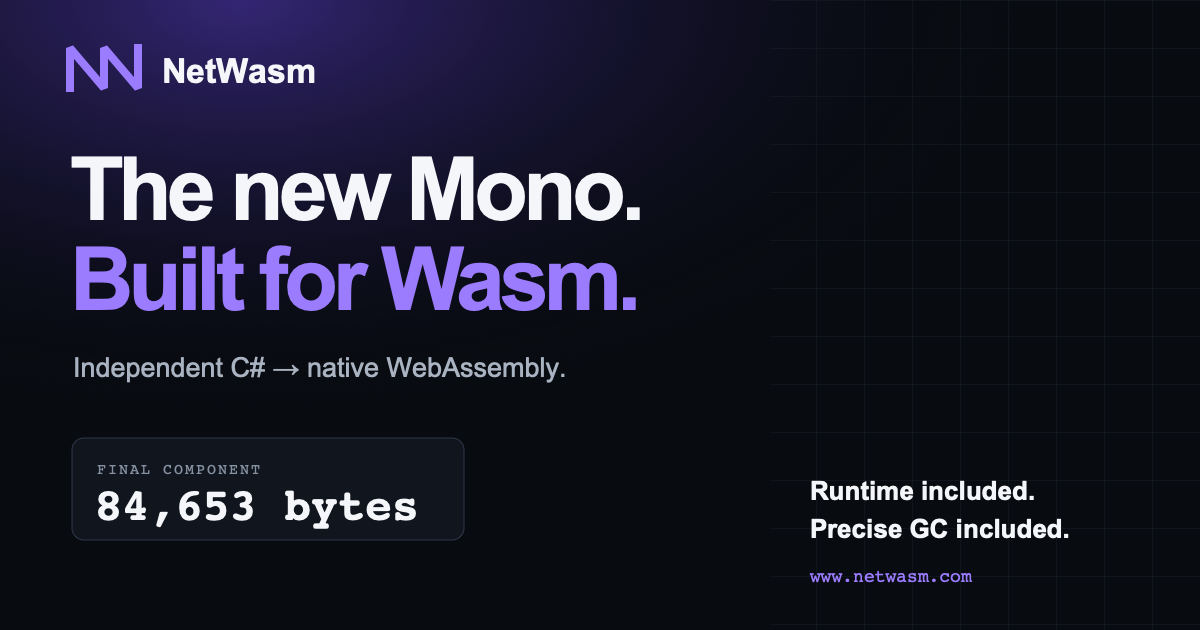
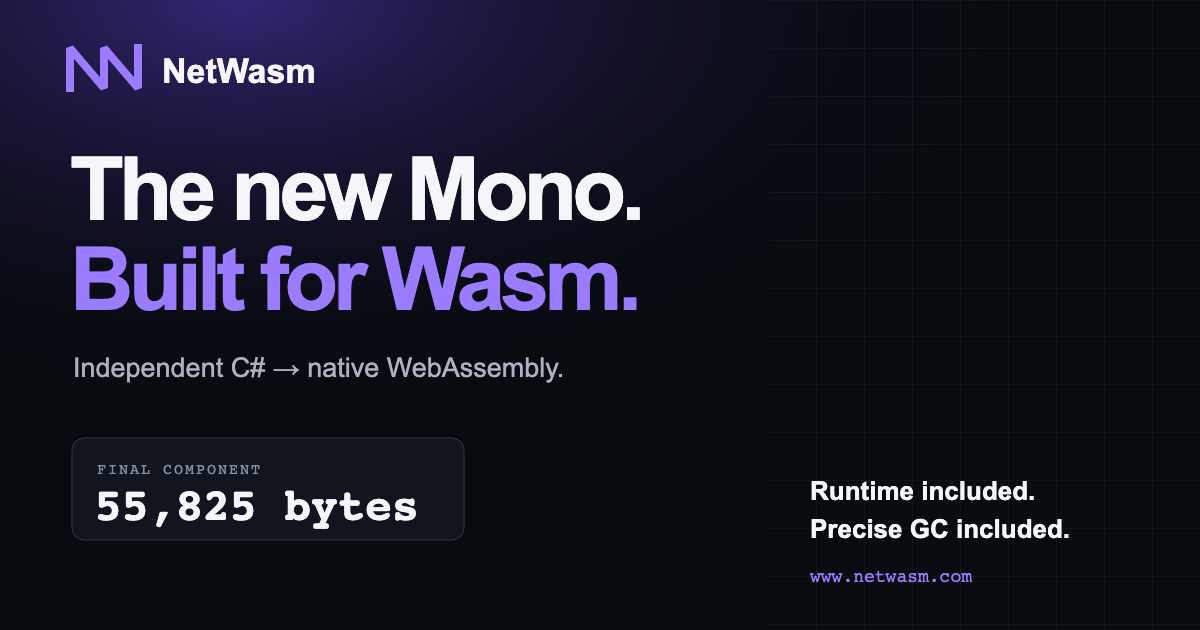
Update site for NetWasm 0.7.0

diff --git a/index.html b/index.html
@@ -78,7 +78,7 @@
         <div class="hero-copy">
           <p class="eyebrow"><span></span> Independent .NET. Built outside Microsoft.</p>
           <h1>Compile C#<br>to <em>WebAssembly.</em></h1>
-          <p class="hero-lede">NetWasm compiles C# and .NET CIL into small, standalone WebAssembly modules and WASI Preview 2 components. A clean Release build of <code>Console.WriteLine(42)</code> is 84,653 bytes, with the runtime and precise GC included.</p>
+          <p class="hero-lede">NetWasm compiles C# and .NET CIL into small, standalone WebAssembly modules and WASI Preview 2 components. A clean NetWasm 0.7.0 Release build of <code>Console.WriteLine(42)</code> is 55,825 bytes, with the runtime and precise GC included.</p>
           <div class="hero-actions">
             <a class="button button-primary" href="https://playground.netwasm.com/" target="_blank" rel="noopener noreferrer">
               Try NetWasm now, no install
@@ -98,7 +98,7 @@
           </div>
           <div class="proof-body">
             <p class="proof-label">FINAL COMPONENT</p>
-            <p class="proof-number">84,653</p>
+            <p class="proof-number">55,825</p>
             <p class="proof-unit">bytes</p>
             <div class="proof-rule"></div>
             <ul>
@@ -125,29 +125,29 @@
       <section class="feature-section section" aria-labelledby="release-title">
         <div class="section-heading">
           <div>
-            <p class="section-kicker">NetWasm 0.6.0</p>
-            <h2 id="release-title">C# Web Workers.<br><span>Wasm interop. More libraries.</span></h2>
+            <p class="section-kicker">NetWasm 0.7.0</p>
+            <h2 id="release-title">A smaller precise GC.<br><span>Now the default.</span></h2>
           </div>
-          <p>Publish C# behind an asynchronous browser worker boundary, call JavaScript and native C through declared contracts, and run package patterns that depend on bounded attributes and expression trees.</p>
+          <p>Compact is a size-first, precise, non-moving mark-and-sweep collector with finalizers, resurrection, weak references, dependent handles, and pinning. It reduces the qualified complete component from 84,653 to 55,825 bytes.</p>
         </div>
         <div class="ecosystem-grid">
-          <a class="ecosystem-card" href="guides/csharp-web-worker/">
-            <span class="ecosystem-number">W</span>
-            <h3>Run C# in a Web Worker</h3>
-            <p>Choose a portable WIT contract or direct JSExport methods. NetWasm generates the worker bootstrap and Promise-based JavaScript client.</p>
-            <strong>Build a worker <span>→</span></strong>
+          <a class="ecosystem-card" href="https://github.com/zion-sati/NetWasm/blob/main/docs/runtime-garbage-collection.md" target="_blank" rel="noopener noreferrer">
+            <span class="ecosystem-number">54.5</span>
+            <h3>KiB, including the runtime</h3>
+            <p>The qualified <code>Console.WriteLine(42)</code> Release component includes the application, runtime, Compact GC, and WASI component wrapper.</p>
+            <strong>Choose a collector <span>↗</span></strong>
           </a>
-          <a class="ecosystem-card" href="https://github.com/zion-sati/NetWasm/blob/main/docs/corelib-runtime.md#static-native-interop" target="_blank" rel="noopener noreferrer">
-            <span class="ecosystem-number">↔</span>
-            <h3>Cross explicit boundaries</h3>
-            <p>Bundle application JavaScript modules, export managed entry points, define WIT interfaces, and link supported native C APIs from Wasm archives.</p>
-            <strong>Read the interop profile <span>↗</span></strong>
+          <a class="ecosystem-card" href="https://github.com/zion-sati/NetWasm/blob/main/docs/size-and-methodology.md" target="_blank" rel="noopener noreferrer">
+            <span class="ecosystem-number">34%</span>
+            <h3>Smaller than the Boehm build</h3>
+            <p>Boehm remains selectable for workloads that benefit from its allocation paths. Both collectors use precise managed roots.</p>
+            <strong>Reproduce both builds <span>↗</span></strong>
           </a>
-          <a class="ecosystem-card" href="blog/netwasm-0-6-0/">
-            <span class="ecosystem-number">0.6</span>
-            <h3>Use more .NET packages</h3>
-            <p>Bounded custom attributes, expression trees, CBOR fixes, secure randomness, Interlocked APIs, and runtime corrections broaden compatibility.</p>
-            <strong>See everything in 0.6.0 <span>→</span></strong>
+          <a class="ecosystem-card" href="https://github.com/zion-sati/NetWasm/releases/tag/v0.7.0" target="_blank" rel="noopener noreferrer">
+            <span class="ecosystem-number">0.7</span>
+            <h3>Upgrade without changing code</h3>
+            <p>Compact is selected for new wasm32 and wasm64 application builds. Class libraries remain collector-neutral.</p>
+            <strong>Read the 0.7.0 notes <span>↗</span></strong>
           </a>
         </div>
       </section>
@@ -158,12 +158,12 @@
             <p class="section-kicker">AOT vs AOT</p>
             <h2 id="size-comparison-title">Native Wasm size.<br><span>Measured, not promised.</span></h2>
           </div>
-          <p>A Release build of <code>Console.WriteLine(42)</code> is 82.7 KiB with NetWasm. The same source compiled with .NET 11 RC1 Blazor WebAssembly AOT is 14.58 MiB, or 181 times larger.</p>
+          <p>A NetWasm 0.7.0 Release build of <code>Console.WriteLine(42)</code> is 54.5 KiB. The same source compiled with .NET 11 RC1 Blazor WebAssembly AOT is 14.58 MiB, or 274 times larger.</p>
         </div>
         <a class="comparison-chart" href="https://github.com/zion-sati/NetWasm/blob/main/docs/size-and-methodology.md#blazor-webassembly-aot-printing-42" target="_blank" rel="noopener noreferrer" aria-label="Read the reproducible AOT size comparison methodology">
-          <img src="aot-console42-size.svg" width="960" height="548" alt="AOT Wasm size comparison: NetWasm is 82.7 KiB, Blazor .NET 10 is 11.71 MiB, and Blazor .NET 11 RC1 is 14.58 MiB. NetWasm is 181 times smaller than the .NET 11 result.">
+          <img src="aot-console42-size.svg" width="960" height="548" alt="AOT Wasm size comparison: NetWasm 0.7.0 is 54.5 KiB, Blazor .NET 10 is 11.71 MiB, and Blazor .NET 11 RC1 is 14.58 MiB. NetWasm is 274 times smaller than the .NET 11 result.">
         </a>
-        <p class="comparison-note">Uncompressed Wasm. Binary units: 1 KiB = 1,024 bytes and 1 MiB = 1,024 KiB. The 0.6.0 result is 140 bytes (+0.17%) above 0.5.0 because <code>ArgumentNullException.ThrowIfNull</code> now preserves its caller-expression parameter name. <a href="https://github.com/zion-sati/NetWasm/blob/main/docs/size-and-methodology.md#blazor-webassembly-aot-printing-42" target="_blank" rel="noopener noreferrer">Reproduce the comparison <span aria-hidden="true">↗</span></a></p>
+        <p class="comparison-note">Uncompressed Wasm. Binary units: 1 KiB = 1,024 bytes and 1 MiB = 1,024 KiB. NetWasm 0.7.0 selects Compact by default; the retained Boehm build is 84,653 bytes. These are different deployment stacks, not equivalent UI frameworks. <a href="https://github.com/zion-sati/NetWasm/blob/main/docs/size-and-methodology.md#blazor-webassembly-aot-printing-42" target="_blank" rel="noopener noreferrer">Reproduce the comparison <span aria-hidden="true">↗</span></a></p>
       </section>
 
       <section class="origin section" aria-label="NetWasm independence">
@@ -314,7 +314,7 @@
             <span>terminal</span>
             <button class="copy-button" type="button" data-copy-target="quickstart-code">Copy</button>
           </div>
-          <!--email_off--><pre id="quickstart-code"><code><span class="prompt">$</span> dotnet new install NetWasm.Templates@0.6.0
+          <!--email_off--><pre id="quickstart-code"><code><span class="prompt">$</span> dotnet new install NetWasm.Templates@0.7.0
 <span class="prompt">$</span> dotnet new netwasm-app -n HelloNetWasm
 <span class="prompt">$</span> cd HelloNetWasm
 <span class="prompt">$</span> dotnet run

diff --git a/guides/csharp-web-worker/index.html b/guides/csharp-web-worker/index.html
@@ -5,7 +5,7 @@
     <meta name="viewport" content="width=device-width, initial-scale=1">
     <meta name="theme-color" content="#080b10" media="(prefers-color-scheme: dark)">
     <meta name="theme-color" content="#f6f8fb" media="(prefers-color-scheme: light)">
-    <meta name="description" content="Publish C# as a browser Web Worker with NetWasm 0.6.0. Choose WIT or JSExport, call the generated JavaScript client, and deploy it on a static host.">
+    <meta name="description" content="Publish C# as a browser Web Worker with NetWasm 0.7.0. Choose WIT or JSExport, call the generated JavaScript client, and deploy it on a static host.">
     <meta property="og:type" content="article">
     <meta property="og:title" content="Run C# in a Web Worker with NetWasm">
     <meta property="og:description" content="Build a C# Web Worker with a generated Promise-based JavaScript client and an explicit Wasm boundary.">
@@ -53,13 +53,13 @@
           <svg class="sun" viewBox="0 0 24 24" aria-hidden="true"><circle cx="12" cy="12" r="4"/><path d="M12 2v2M12 20v2M4.93 4.93l1.42 1.42M17.66 17.66l1.41 1.41M2 12h2M20 12h2M4.93 19.07l1.42-1.42M17.66 6.34l1.41-1.41"/></svg>
           <svg class="moon" viewBox="0 0 24 24" aria-hidden="true"><path d="M20.4 15.5A9 9 0 0 1 8.5 3.6 9 9 0 1 0 20.4 15.5Z"/></svg>
         </button>
-        <a class="button button-small playground-link" href="https://github.com/zion-sati/NetWasm/releases/tag/v0.6.0" target="_blank" rel="noopener noreferrer">Get NetWasm 0.6 <span aria-hidden="true">↗</span></a>
+        <a class="button button-small playground-link" href="https://github.com/zion-sati/NetWasm/releases/tag/v0.7.0" target="_blank" rel="noopener noreferrer">Get NetWasm 0.7 <span aria-hidden="true">↗</span></a>
       </div>
     </header>
 
     <main id="main">
       <header class="guide-hero">
-        <p class="section-kicker">NetWasm 0.6.0 guide</p>
+        <p class="section-kicker">NetWasm 0.7.0 guide</p>
         <h1>Run C# in a Web Worker.</h1>
         <p>Publish C# behind an asynchronous worker boundary, keep the page responsive while it runs, and call it through a generated JavaScript client. Each worker owns its Wasm instance and managed heap.</p>
         <div class="guide-actions">
@@ -82,7 +82,7 @@
         <article class="guide-content">
           <section id="choose">
             <h2>Choose the contract your page needs</h2>
-            <p>NetWasm 0.6.0 ships two worker templates. Both generate the worker bootstrap, deployment manifest, and Promise-based page client.</p>
+            <p>NetWasm 0.7.0 ships two worker templates. Both generate the worker bootstrap, deployment manifest, and Promise-based page client.</p>
             <ul>
               <li><strong>WIT worker:</strong> choose <code>--worker wit</code> for a language-neutral interface described by WIT and packaged as a WebAssembly Component.</li>
               <li><strong>JSExport worker:</strong> choose <code>--worker jsexport</code> when JavaScript should call bounded managed methods marked with <code>[JSExport]</code>.</li>
@@ -92,10 +92,10 @@
 
           <section id="create">
             <h2>Create and publish the worker</h2>
-            <p>Install the 0.6.0 templates, create either worker shape, and publish the included working page:</p>
+            <p>Install the 0.7.0 templates, create either worker shape, and publish the included working page:</p>
             <div class="terminal guide-terminal">
               <div class="terminal-bar"><span class="traffic"><i></i><i></i><i></i></span><span>terminal</span><button class="copy-button" type="button" data-copy-target="worker-create-code">Copy</button></div>
-              <!--email_off--><pre id="worker-create-code"><code><span class="prompt">$</span> dotnet new install NetWasm.Templates@0.6.0
+              <!--email_off--><pre id="worker-create-code"><code><span class="prompt">$</span> dotnet new install NetWasm.Templates@0.7.0
 <span class="prompt">$</span> dotnet new netwasm-app -n ReportWorker --worker jsexport
 <span class="comment"># Or use: --worker wit</span>
 <span class="prompt">$</span> cd ReportWorker
@@ -154,8 +154,8 @@ try {
             <p class="section-kicker">Ready to build?</p>
             <h2>Put C# behind a worker boundary.</h2>
             <div class="guide-actions">
-              <a class="button button-primary" href="#create">Use the 0.6.0 template</a>
-              <a class="button button-quiet" href="../../blog/netwasm-0-6-0/">Read the release notes</a>
+              <a class="button button-primary" href="#create">Use the 0.7.0 template</a>
+              <a class="button button-quiet" href="https://github.com/zion-sati/NetWasm/releases/tag/v0.7.0" target="_blank" rel="noopener noreferrer">Read the 0.7.0 release notes</a>
             </div>
           </div>
         </article>

diff --git a/compile-csharp-to-webassembly/index.html b/compile-csharp-to-webassembly/index.html
@@ -110,7 +110,7 @@
             </ul>
             <div class="guide-callout">
               <strong>Measured baseline</strong>
-              <p>A clean NetWasm 0.6.0 Release build of <code>Console.WriteLine(42)</code> produces an 84,653-byte uncompressed component. That includes the C# application, runtime, and precise GC. Read the <a href="https://github.com/zion-sati/NetWasm/blob/main/docs/size-and-methodology.md" target="_blank" rel="noopener noreferrer">reproduction methodology</a>.</p>
+              <p>A clean NetWasm 0.7.0 Release build of <code>Console.WriteLine(42)</code> produces a 55,825-byte uncompressed component with the default Compact collector. That includes the C# application, runtime, and precise GC. Read the <a href="https://github.com/zion-sati/NetWasm/blob/main/docs/size-and-methodology.md" target="_blank" rel="noopener noreferrer">reproduction methodology</a>.</p>
             </div>
           </section>
 
@@ -129,7 +129,7 @@
                 <span>terminal</span>
                 <button class="copy-button" type="button" data-copy-target="guide-compile-code">Copy</button>
               </div>
-              <!--email_off--><pre id="guide-compile-code"><code><span class="prompt">$</span> dotnet new install NetWasm.Templates@0.6.0
+              <!--email_off--><pre id="guide-compile-code"><code><span class="prompt">$</span> dotnet new install NetWasm.Templates@0.7.0
 <span class="prompt">$</span> dotnet new netwasm-app -n HelloNetWasm
 <span class="prompt">$</span> cd HelloNetWasm
 <span class="prompt">$</span> dotnet run
@@ -166,7 +166,7 @@
             <h2>Compile C# to WebAssembly in your browser</h2>
             <p>The <a href="https://playground.netwasm.com/" target="_blank" rel="noopener noreferrer">NetWasm Playground</a> runs the compiler locally in the browser. You can edit C#, compile it, run the result, inspect diagnostics, compare optimization settings, and download the component without sending the source to a compilation server.</p>
             <p>Browser deployment uses a JavaScript host adapter around the same compiled program. NetWasm is not Blazor and does not require a Blazor UI framework.</p>
-            <p>NetWasm 0.6.0 can also publish a C# application as a browser Web Worker with a generated JavaScript client. Follow the <a href="../guides/csharp-web-worker/">C# Web Workers guide</a> for a complete example.</p>
+            <p>NetWasm 0.7.0 can also publish a C# application as a browser Web Worker with a generated JavaScript client. Follow the <a href="../guides/csharp-web-worker/">C# Web Workers guide</a> for a complete example.</p>
           </section>
 
           <section id="how-it-works">
